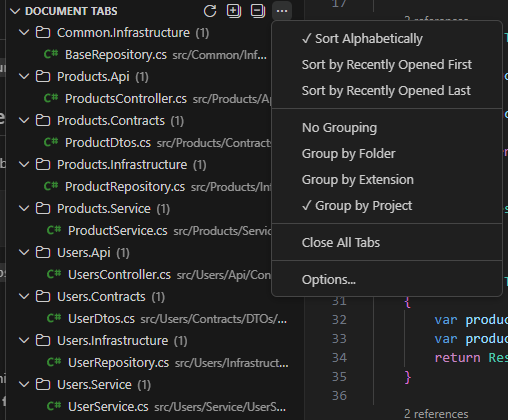
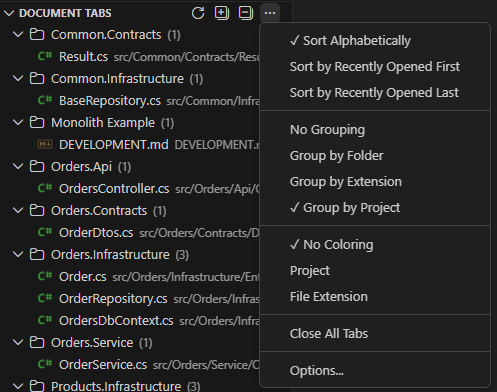
Release 1.0.3

diff --git a/CHANGELOG.md b/CHANGELOG.md
@@ -7,6 +7,17 @@ and this project adheres to [Semantic Versioning](https://semver.org/spec/v2.0.0
 
 ## [Unreleased]
 
+## [1.0.3] - 2025-12-18
+
+### Added
+
+- README context menu screenshot
+
+### Changed
+
+- View menu: show Color section items directly (no submenu)
+- README view menu screenshot updated
+
 ## [1.0.2] - 2025-12-14
 
 ### Added
@@ -51,7 +62,8 @@ and this project adheres to [Semantic Versioning](https://semver.org/spec/v2.0.0
 - Tab count badge on view
 - Expand All action in the view title
 
-[Unreleased]: https://github.com/GridFlowTech/document-tabs/compare/v1.0.2...HEAD
+[Unreleased]: https://github.com/GridFlowTech/document-tabs/compare/v1.0.3...HEAD
+[1.0.3]: https://github.com/GridFlowTech/document-tabs/compare/v1.0.2...v1.0.3
 [1.0.2]: https://github.com/GridFlowTech/document-tabs/compare/v1.0.1...v1.0.2
 [1.0.1]: https://github.com/GridFlowTech/document-tabs/compare/v1.0.0...v1.0.1
 [1.0.0]: https://github.com/GridFlowTech/document-tabs/releases/tag/v1.0.0

diff --git a/README.md b/README.md
@@ -2,7 +2,15 @@
 
 A Visual Studio-style vertical tab grouping view for VS Code. This extension provides a custom sidebar view showing all currently open tabs with powerful grouping, sorting, and tab management features.
 
-![Document Tabs view menu](assets/document-tabs-view-menu.png)
+## Screenshots
+
+### View Menu
+
+![Document Tabs View Menu](assets/document-tabs-view-menu.png)
+
+### Context Menu Actions
+
+![Document Tabs Context Menu Actions](assets/document-tabs-context-menu-actions.png)
 
 ## Features
 
